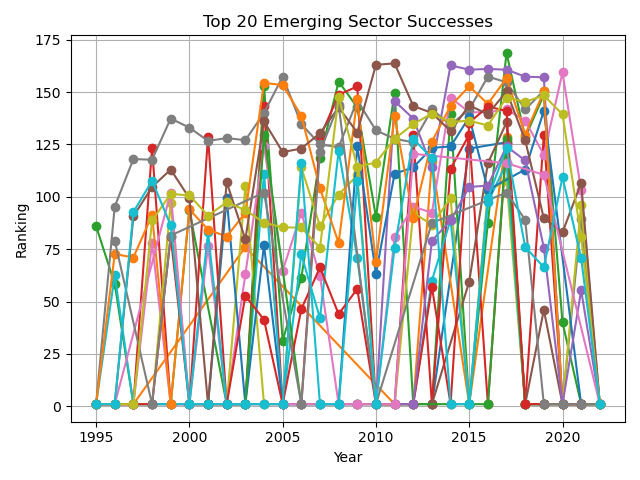
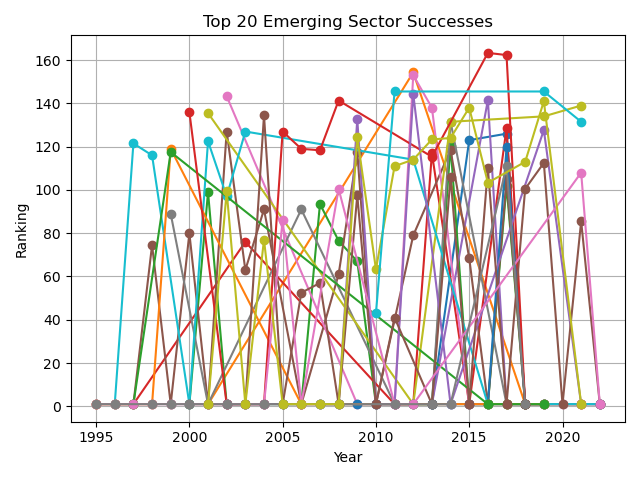
visualizations

diff --git a/analysis_kara.py b/analysis_kara.py
@@ -41,25 +41,26 @@ def emerging_success(rank_col: str, window_len: int, recent_len: int, top_rows: 
 
         recent_window = 2022 - recent_len
         recent_df = group[group['year'] >= recent_window]
+        nonzero_rdf = recent_df[recent_df[rank_col] != 0]
+        recent_growth = float('inf')
         
-        if len(recent_df) > 1:
-            recent_growth = recent_df.iloc[len(recent_df) - 1][rank_col] - recent_df.iloc[0][rank_col]
-        else:
-            recent_growth = float('-inf')
-
+        if len(nonzero_rdf) > 1:
+            recent_growth = (nonzero_rdf.iloc[len(nonzero_rdf) - 1][rank_col] - nonzero_rdf.iloc[0][rank_col]) / (nonzero_rdf.iloc[len(nonzero_rdf) - 1]['year'] - nonzero_rdf.iloc[0]['year'])
+            
         early_df = group[group['year'] < recent_window]
+        nonzero_edf = early_df[early_df[rank_col] != 0]
 
         early_growth = []
-        early_growth_avg = float('-inf')
+        early_growth_avg = float('inf')
 
-        if len(early_df) > 1:
-            early_growth_avg = early_df.iloc[len(early_df) - 1][rank_col] - early_df.iloc[0][rank_col]
+        if len(nonzero_edf) > 1:
+            early_growth_avg = nonzero_edf.iloc[len(nonzero_edf) - 1][rank_col] - nonzero_edf.iloc[0][rank_col]
             i = 0
             curr_yr = 1995
 
             while curr_yr + window_len < recent_window:
-                early_mask = (curr_yr <= early_df['year']) & (early_df['year'] < (curr_yr + window_len))
-                early_window = early_df[early_mask]
+                early_mask = (curr_yr <= nonzero_edf['year']) & (nonzero_edf['year'] < (curr_yr + window_len))
+                early_window = nonzero_edf[early_mask]
 
                 if len(early_window) > 1:
                     early_slope = early_window.iloc[len(early_window) - 1][rank_col] - early_window.iloc[0][rank_col]
@@ -68,11 +69,11 @@ def emerging_success(rank_col: str, window_len: int, recent_len: int, top_rows: 
 
                 curr_yr = curr_yr + window_len
 
-            early_mask = (curr_yr <= early_df['year']) & (early_df['year'] < (recent_window))
-            early_window = early_df[early_mask]
+            early_mask = (curr_yr <= nonzero_edf['year']) & (nonzero_edf['year'] < (recent_window))
+            early_window = nonzero_edf[early_mask]
 
             if len(early_window) > 1:
-                early_slope = early_window.iloc[len(early_window) - 1][rank_col] - early_window.iloc[0][rank_col]
+                early_slope = (early_window.iloc[len(early_window) - 1][rank_col] - early_window.iloc[0][rank_col]) / (early_window.iloc[len(early_window) - 1]['year'] - early_window.iloc[0]['year'])
                 early_growth.append(len(early_window) * early_slope)
                 i += len(early_window)
 
@@ -131,7 +132,7 @@ def emerging_success(rank_col: str, window_len: int, recent_len: int, top_rows: 
     plt.figure(figsize=(12, 6))
     plt.axis('off')
     plt.title("Emerging Sector Successes")
-    plt.table(cellText=df_sorted_top.values, colLabels=df_sorted_top.columns, loc='center')
+    table = plt.table(cellText=df_sorted_top.values, colLabels=df_sorted_top.columns, loc='center')
     plt.savefig('emerging_successes_table.png')
 
     return df_sorted.head(top_rows)
